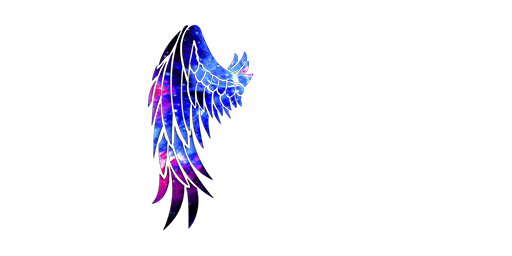
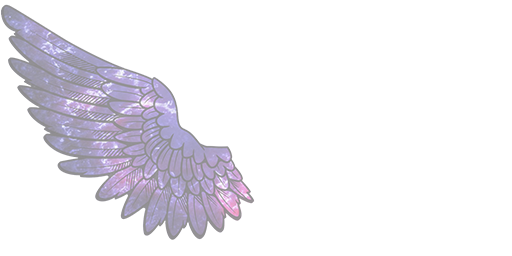
update stars wings & add colored effects for wings

Changed region(s): [[0.0, 0.0, 0.5, 0.9375]]

diff --git a/src/game/client/components/players.cpp b/src/game/client/components/players.cpp
@@ -633,7 +633,8 @@ void CPlayers::OnInit()
 	m_aEquipInfo.add({ itAngelWings,  vec4(0.2f, 0.2f, 1.75f, 0.003f), vec2(115, 64), vec2(200, 100), 0.0f, IMAGE_ANGEL_WINGS, ANIM_WINGS_LENGTH });
 	m_aEquipInfo.add({ itHeavenlyWings, vec4(1.0f, 0.85f, 0.0f, 0.003f), vec2(170, 100), vec2(280, 150), 0.0f, IMAGE_HEAVENLY_WINGS, ANIM_WINGS_LENGTH });
 	m_aEquipInfo.add({ itRainbowWings, vec4(0.1f, 0.1f, 0.1f, 0.003f), vec2(115, 70), vec2(200, 100), 0.9f, IMAGE_RAINBOW_WINGS, ANIM_WINGS_LENGTH });
-	m_aEquipInfo.add({ itStarsWings, vec4(0.04f, 0.0f, 0.10f, 0.003f), vec2(140, 45), vec2(280, 100), 0.3f, IMAGE_STARS_WINGS, ANIM_WINGS_STATIC });
+
+	m_aEquipInfo.add({ itStarsWings, vec4(0.3f, 0.3f, 0.3f, 0.2f), vec2(100, 76), vec2(200, 100), 1.0f, IMAGE_STARS_WINGS, ANIM_WINGS_LENGTH });
 	m_aEquipInfo.add({ itBatWings, vec4(0.15f, 0.0f, 0.0f, 0.003f), vec2(80, 70), vec2(140, 120), 0.3f, IMAGE_BAT_WINGS, ANIM_WINGS_STATIC });
 	m_aEquipInfo.add({ itEagleLittleWings, vec4(0.1f, 0.1f, 0.1f, 0.003f), vec2(60, 50), vec2(100, 80), 0.3f, IMAGE_EAGLE_LITTLE_WINGS, ANIM_WINGS_STATIC });
 	m_aEquipInfo.add({ itNecromanteWings, vec4(0.5f, 0.1f, 0.1f, 0.01f), vec2(110, 60), vec2(200, 140), 0.3f, IMAGE_NECROMANTE_WINGS, ANIM_WINGS_STATIC });
@@ -903,8 +904,8 @@ void CPlayers::RenderWings(const CNetObj_Character Player, CAnimState* pAnimWing
 	if (g_Config.m_ClShowMEffects != 2 && WingsEnchantItem)
 	{
 		vec4 Color = pEquipInfo->Color;
-		m_pClient->m_pEffects->EnchantEffect(vec2(Position.x - 60, Position.y - 20), Direction, Color);
-		m_pClient->m_pEffects->EnchantEffect(vec2(Position.x + 60, Position.y - 20), Direction, Color);
+		m_pClient->m_pEffects->EnchantEffect(vec2(Position.x - 60, Position.y - 20), Direction, Color, pEquipInfo->EffectColorRandom);
+		m_pClient->m_pEffects->EnchantEffect(vec2(Position.x + 60, Position.y - 20), Direction, Color, pEquipInfo->EffectColorRandom);
 	}
 	RenderTools()->RenderWings(pAnimWings, pEquipInfo->SpriteID, Direction, Position, pEquipInfo->Position, pEquipInfo->Size);
 }

diff --git a/src/game/client/components/effects.cpp b/src/game/client/components/effects.cpp
@@ -368,7 +368,7 @@ void CEffects::EnchantEffect(vec2 Pos, vec2 Vel, vec4 Color, float RandomSize)
 		return;
 
 	vec2 PosRandom = vec2(Pos.x + 40.0f - frandom() * 80.0f, Pos.y + 40.0f - frandom() * 80.0f);
-	if (length(PosRandom) < 15.0f)
+	if (length(PosRandom) < 40.0f)
 		return;
 
 	CParticle p;
@@ -377,7 +377,7 @@ void CEffects::EnchantEffect(vec2 Pos, vec2 Vel, vec4 Color, float RandomSize)
 	p.m_Pos = PosRandom;
 	p.m_Vel = Vel + RandomDir() * 200.0f;
 	p.m_LifeSpan = 0.5f + frandom() * 0.5f;
-	p.m_StartSize = 5.0f + frandom() * 25.0f;
+	p.m_StartSize = 5.0f + frandom() * 20.0f;
 	p.m_EndSize = 0;
 	p.m_Friction = 0.8f;
 	p.m_Gravity = frandom() * -500.0f;
